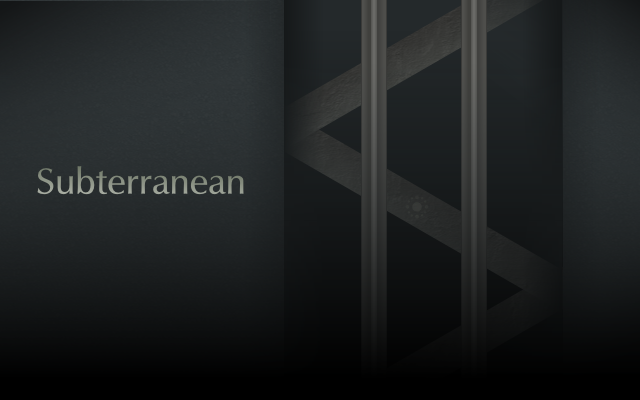
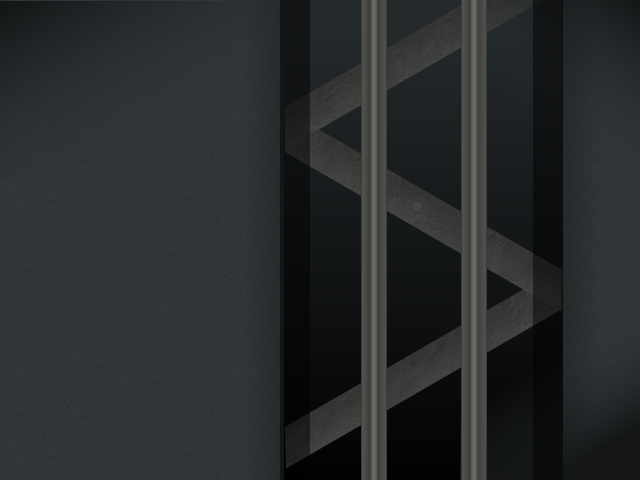
Added a short into

diff --git a/title.py b/title.py
@@ -14,7 +14,11 @@ class Title(engine.State):
     def init(self):
         self.game.music('default')
         self.bkgr = pygame.image.load(os.path.join("data","title","title.png")).convert()
+        self.elevator = pygame.image.load(os.path.join("data","title","elevator.png")).convert_alpha()
+        self.darkness = pygame.image.load(os.path.join("data","title","darkness.png")).convert_alpha()
+        self.logo = pygame.image.load(os.path.join("data","title","logo.png")).convert_alpha()
         self.frame = 0
+        self.shake = 1
         
         import rooms.test
         self.next = rooms.test.Room(self.game,'title')
@@ -24,13 +28,25 @@ class Title(engine.State):
         self.paint(screen)
         
     def paint(self,screen):
-		screen.blit(self.bkgr,(0,0))
-		pygame.display.flip()
+        #KALLE: Me dont understand... :)
+        f = self.frame
+        n = FPS*3
+        i = f-FPS*3
+        y = SW*i/(FPS*1)
+        if i > int(FPS*4.5) and f%5 == 0:
+            screen.fill((0,0,0),(0,0,SW,485))
+        else:
+            if self.shake == 1: self.shake=2
+            else: self.shake = 1
+            screen.blit(self.bkgr,(self.shake,0))
+            screen.blit(self.elevator,(286,y))
+            screen.blit(self.darkness,(0,0))
+            screen.blit(self.logo,(25,175))
+        pygame.display.flip()
         
     def event(self,e):
         if e.type is KEYDOWN:
-            return self.next
-            
+            return self.next            
         
     def loop(self):
         self.frame += 1
